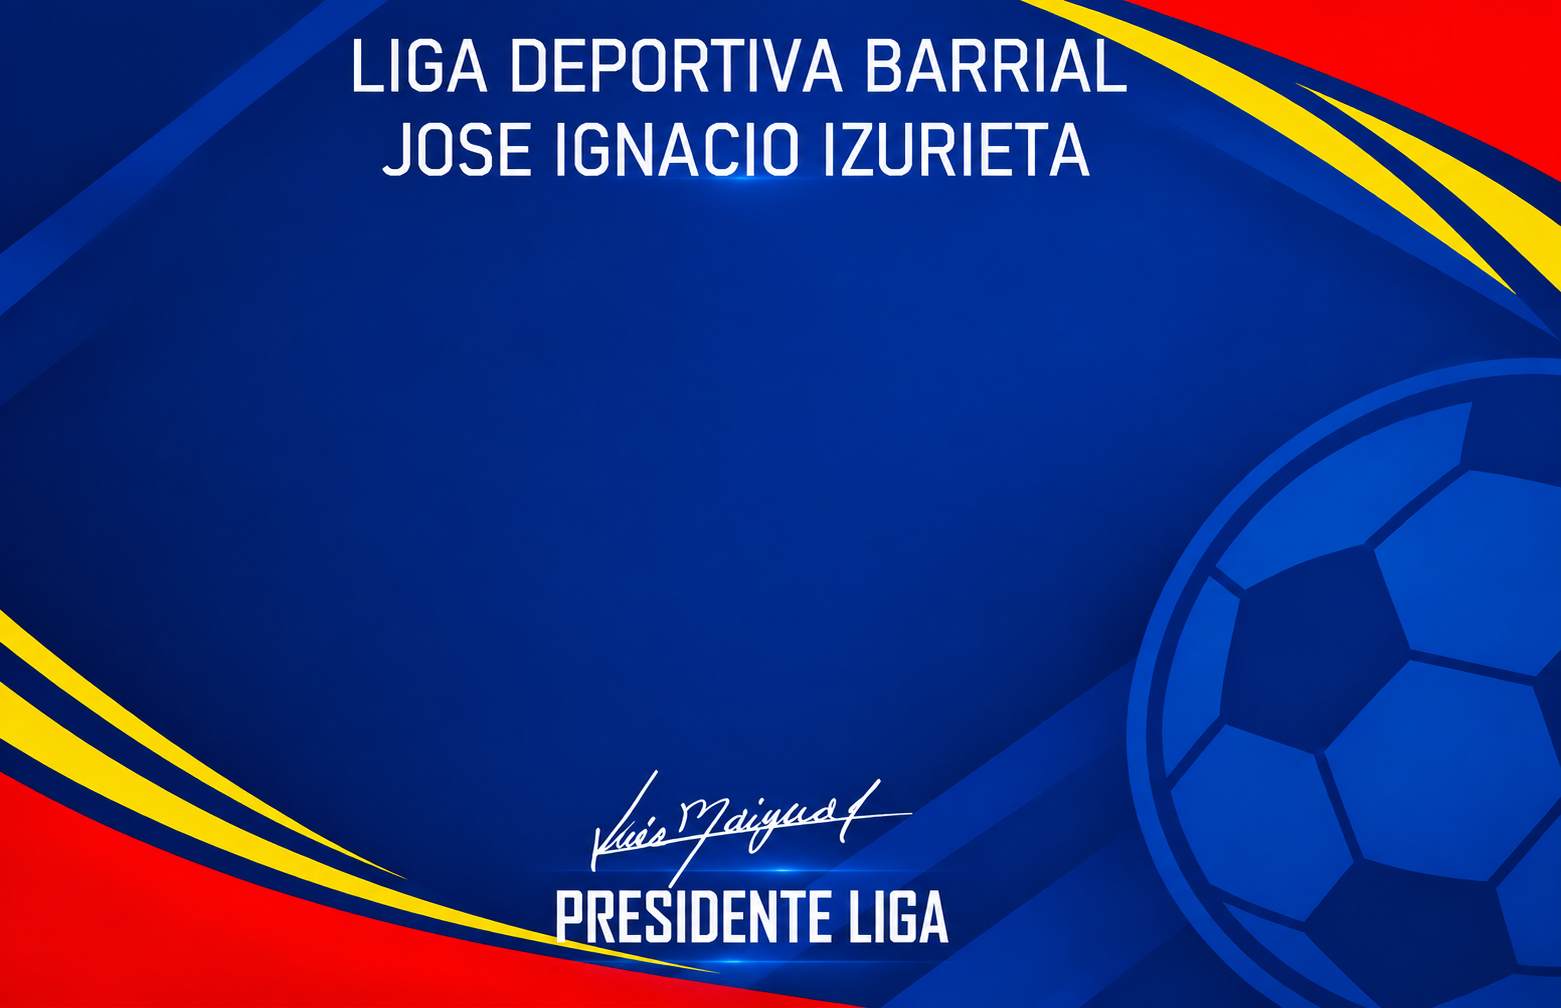
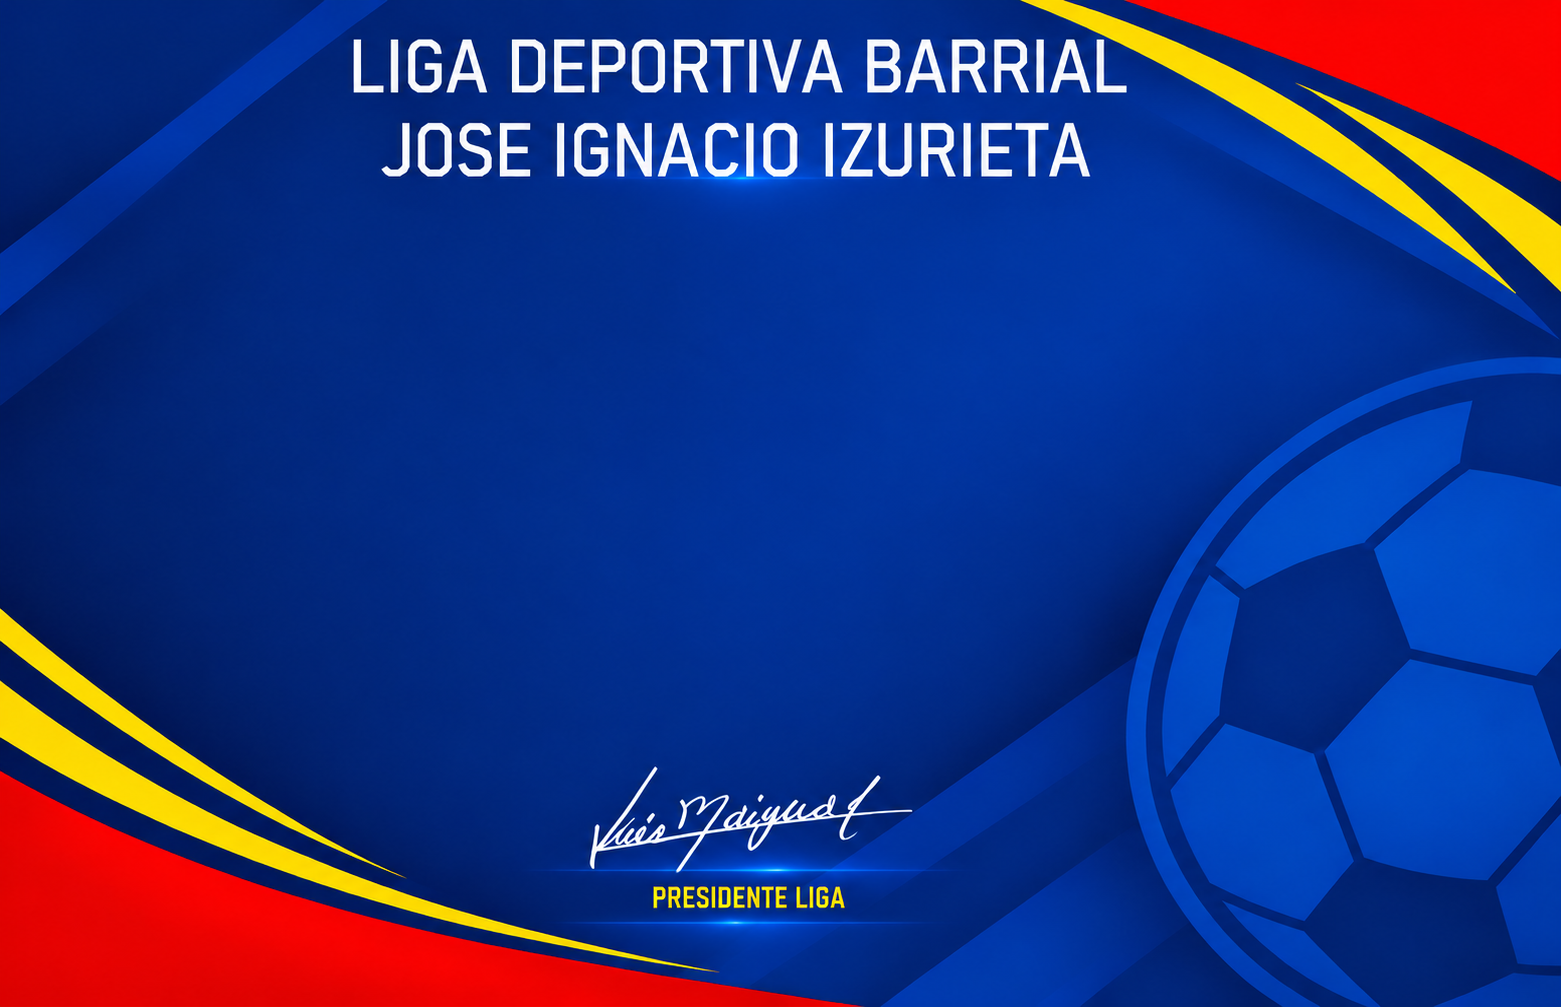
Fix: carnet con imagen de fondo y datos sobrepuestos

diff --git a/src/pages/MiCarnet.jsx b/src/pages/MiCarnet.jsx
@@ -3,6 +3,11 @@ import { supabase } from '../lib/supabase'
 import { useAuth } from '../contexts/AuthContext'
 import { X, Printer, AlertTriangle, CheckCircle } from 'lucide-react'
 
+// IMPORTAMOS TU IMAGEN DE FONDO
+import carnetFondo from '../assets/carnet-fondo.png'
+// Si tienes el sello de la liga, descomenta la siguiente línea y asegúrate de que la imagen exista:
+// import selloLiga from '../assets/sello-liga.png'
+
 export default function MiCarnet() {
   const { usuario } = useAuth()
   
@@ -61,7 +66,8 @@ export default function MiCarnet() {
           <title>Imprimir Carnet</title>
           <style>
             body { display: flex; justify-content: center; align-items: center; height: 100vh; margin: 0; background: #f0f0f0; }
-            .carnet-container { width: 400px; height: 250px; transform: scale(1.5); }
+            /* Forzamos el tamaño para impresión horizontal */
+            .carnet-container { width: 600px; height: 400px; transform: scale(1.5); }
             img { max-width: 100%; }
             * { -webkit-print-color-adjust: exact !important; print-color-adjust: exact !important; }
           </style>
@@ -123,74 +129,74 @@ export default function MiCarnet() {
         </div>
       ) : null}
 
+      {/* MODAL DEL CARNET */}
       {modalAbierto && carnet && (
         <div className="fixed inset-0 bg-black/60 z-50 flex items-center justify-center p-4">
-          <div className="bg-white rounded-xl shadow-2xl max-w-lg w-full overflow-hidden">
+          <div className="bg-white rounded-xl shadow-2xl max-w-3xl w-full overflow-hidden">
             
             <div className="flex justify-between items-center p-4 border-b">
               <h3 className="font-bold text-liga-azul">Carnet Digital Oficial</h3>
               <button onClick={() => setModalAbierto(false)} className="text-gray-400 hover:text-red-500"><X size={24} /></button>
             </div>
 
+            {/* Contenedor del Carnet (Proporción 3:2) */}
             <div className="p-6 flex justify-center bg-gray-100">
               <div 
                 ref={carnetRef} 
-                className="relative w-[400px] h-[250px] bg-gradient-to-br from-blue-900 via-blue-800 to-blue-900 rounded-xl shadow-lg overflow-hidden border border-gray-300"
+                className="relative w-[600px] h-[400px] bg-blue-900 rounded-xl shadow-lg overflow-hidden"
               >
-                <div className="absolute inset-0 bg-[url('https://www.transparenttextures.com/patterns/carbon-fibre.png')] opacity-20"></div>
-                <div className="absolute top-0 right-0 w-32 h-full bg-red-600 transform skew-x-[-20deg] translate-x-10"></div>
-                <div className="absolute top-0 right-0 w-8 h-full bg-yellow-400 transform skew-x-[-20deg] translate-x-10"></div>
+                {/* 1. IMAGEN DE FONDO */}
+                <img src={carnetFondo} alt="Fondo Carnet" className="absolute inset-0 w-full h-full object-cover" />
 
-                <div className="absolute top-4 left-0 right-0 text-center z-10 px-4">
-                  <h2 className="text-white font-bold text-sm tracking-wider leading-tight text-shadow">
-                    LIGA DEPORTIVA BARRIAL<br/>JOSÉ IGNACIO IZURIETA
-                  </h2>
-                </div>
-
-                <div className="absolute top-16 left-4 w-24 h-28 bg-gray-200 border-2 border-white rounded-md overflow-hidden shadow-md z-10">
+                {/* 2. FOTO DEL JUGADOR (Izquierda) */}
+                <div className="absolute top-[22%] left-[4%] w-[22%] h-[38%] bg-gray-200 border-2 border-white rounded-md overflow-hidden shadow-lg z-10">
                   {carnet.foto_url ? (
                     <img src={carnet.foto_url} alt="Jugador" className="w-full h-full object-cover" />
                   ) : (
-                    <div className="w-full h-full flex items-center justify-center text-gray-400 text-3xl font-bold">
+                    <div className="w-full h-full flex items-center justify-center text-gray-400 text-4xl font-bold">
                       {carnet.nombres?.charAt(0)}
                     </div>
                   )}
                 </div>
 
-                <div className="absolute top-[85px] left-32 right-4 z-10">
-                  <h3 className="text-white font-bold text-sm leading-tight mb-1">{carnet.apellidos} {carnet.nombres}</h3>
-                  <p className="text-white text-xs font-mono mb-1">C.C. {carnet.cedula}</p>
-                  <p className="text-white text-xs font-bold">CLUB: {carnet.equipo}</p>
+                {/* 3. DATOS DEL JUGADOR (Centro) */}
+                <div className="absolute top-[25%] left-[30%] right-[30%] z-10">
+                  <h3 className="text-white font-bold text-lg leading-tight mb-1 text-shadow">
+                    {carnet.apellidos} {carnet.nombres}
+                  </h3>
+                  <p className="text-white text-sm font-mono mb-1 text-shadow">
+                    C.C. {carnet.cedula}
+                  </p>
+                  <p className="text-white text-sm font-bold text-shadow">
+                    CLUB: {carnet.equipo}
+                  </p>
                 </div>
 
-                <div className="absolute bottom-4 left-4 z-10 flex flex-col items-center">
-                  <img src={carnet.firma_presidente || 'https://upload.wikimedia.org/wikipedia/commons/f/fa/Signature_of_John_Hancock.svg'} alt="Firma" className="h-8 object-contain opacity-80 mb-1" />
-                  {/* cSpell:ignore Maigua */}
-                  <p className="text-yellow-400 font-bold text-xs">Luis Maigua</p>
-                </div>
-
-                <div className="absolute bottom-4 left-1/2 -translate-x-1/2 z-10 bg-white p-1 rounded-sm">
+                {/* 4. CÓDIGO QR (Abajo a la Izquierda) */}
+                <div className="absolute bottom-[12%] left-[4%] z-10 bg-white p-1.5 rounded-md shadow-md">
                   <img 
-                    src={`https://api.qrserver.com/v1/create-qr-code/?size=70x70&data=${carnet.token_carnet}`} 
+                    src={`https://api.qrserver.com/v1/create-qr-code/?size=100x100&data=${carnet.token_carnet}`} 
                     alt="QR" 
-                    className="w-[70px] h-[70px]"
+                    className="w-[80px] h-[80px]"
                   />
                 </div>
 
-                <div className="absolute bottom-4 right-4 z-10 w-16 h-16 bg-white rounded-full p-1 flex items-center justify-center shadow-md">
+                {/* 5. ESCUDO DEL CLUB (Abajo a la Derecha) */}
+                <div className="absolute bottom-[8%] right-[5%] z-10 w-20 h-20 bg-white/90 rounded-full p-1 flex items-center justify-center shadow-lg border-2 border-liga-azul">
                   {carnet.escudo_url ? (
-                    <img src={carnet.escudo_url} alt="Escudo Club" className="w-full h-full object-contain" />
+                    <img src={carnet.escudo_url} alt="Escudo Club" className="w-full h-full object-contain rounded-full" />
                   ) : (
-                    <div className="w-full h-full bg-gray-200 rounded-full flex items-center justify-center text-blue-900 font-bold text-[10px]">
+                    <div className="w-full h-full bg-gray-200 rounded-full flex items-center justify-center text-blue-900 font-bold text-xs">
                       {carnet.equipo?.substring(0, 3).toUpperCase()}
                     </div>
                   )}
                 </div>
                 
-                {/* Sello de la liga reemplazado por texto para evitar error de importación */}
-                <div className="absolute top-2 right-2 opacity-30 z-0">
-                  <span className="text-white font-bold text-[10px]">LDBJI</span>
-                </div>
+                {/* 6. SELLO DE LA LIGA (Opcional, arriba a la derecha) */}
+                {/* Si tienes la imagen del sello, descomenta esto: */}
+                {/* <div className="absolute top-[5%] right-[5%] z-10 w-16 h-16 opacity-80">
+                  <img src={selloLiga} alt="Liga" className="w-full h-full object-contain" />
+                </div> */}
               </div>
             </div>
 
